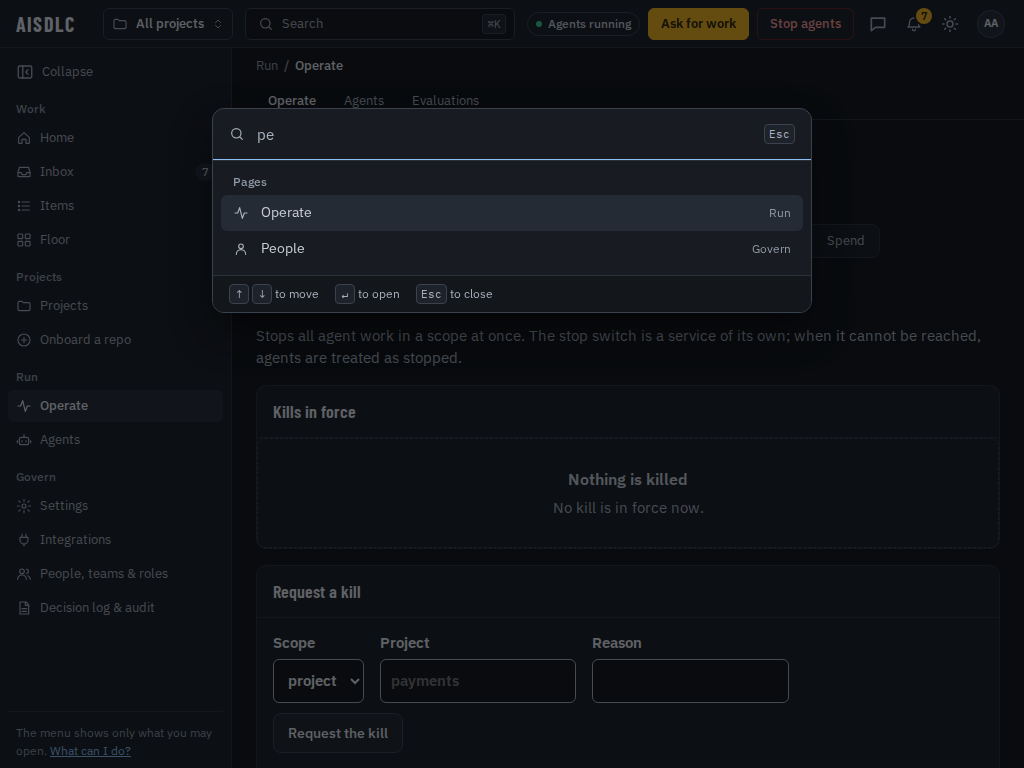
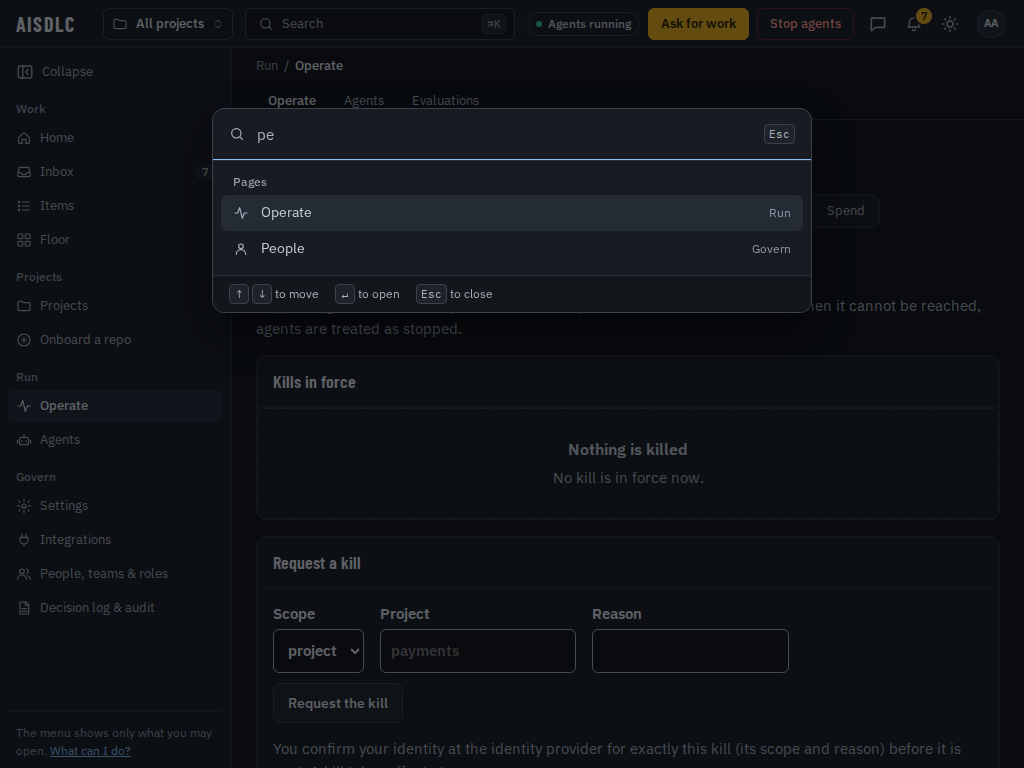
fix(web): one page header: the shell's trail replaces a page's repeated crumbs; h1 on the type scale

diff --git a/services/web/src/ui/AppShell.tsx b/services/web/src/ui/AppShell.tsx
@@ -8,7 +8,7 @@ import {
   type ReactNode,
 } from 'react';
 import { NavIcon } from './icons';
-import { Breadcrumb } from './page';
+import { Breadcrumb, TrailContext } from './page';
 
 // The portal's shell: a compact top bar (wordmark, project switcher, search, the person's controls), a slim rail of
 // group icons on the left (collapsed by default; expanded it is a two-level list), and in the page a header band
@@ -139,6 +139,15 @@ export function AppShell({
   const rail = collapsed && !phone;
   const navId = useId();
   const group = nav?.find((g) => g.entries.some(anyCurrent));
+  const trail = useMemo(() => {
+    const t = group ? tabsOf(group) : [];
+    const inside = group ? (t.find((x) => x.current) ?? group.entries.find(anyCurrent)) : undefined;
+    return [
+      ...(group?.label ? [group.label] : []),
+      ...(inside ? [inside.label] : []),
+      ...(here ? [here] : []),
+    ];
+  }, [group, here]);
   const mainRef = useRef<HTMLElement>(null);
   const first = useRef(true);
   useEffect(() => {
@@ -224,7 +233,9 @@ export function AppShell({
         <main id="main" tabIndex={-1} ref={mainRef} className="ui-main">
           {nav ? <PageBand group={group} here={here} renderLink={renderLink} /> : null}
           {banners ? <div className="ui-banners">{banners}</div> : null}
-          <div className="ui-content">{children}</div>
+          <TrailContext.Provider value={trail}>
+            <div className="ui-content">{children}</div>
+          </TrailContext.Provider>
         </main>
       </div>
     </div>

diff --git a/services/web/src/ui/page.tsx b/services/web/src/ui/page.tsx
@@ -1,8 +1,11 @@
-import type { ReactNode } from 'react';
+import { createContext, useContext, type ReactNode } from 'react';
 import type { Crumb } from './layout';
 
 // The top of a v2 page (skeleton screens 2 to 4): the breadcrumb, one `h1`, a line of facts, the status beside the
 // title and the page's actions. On a phone the actions wrap under the title.
+
+/** The shell's own trail (section, page): a page header leaves out crumbs that repeat it. */
+export const TrailContext = createContext<readonly string[]>([]);
 
 export function Breadcrumb({
   crumbs,
@@ -54,9 +57,13 @@ export function PageHeader({
   icon?: ReactNode;
   renderLink?: (to: string, label: string) => ReactNode;
 }) {
+  const trail = useContext(TrailContext);
+  const rest = crumbs.filter((c) => !trail.includes(c.label));
+  // what is left is worth a line only when it says more than the current page, which the shell's tabs name
+  const shown = rest.length >= 2 || rest.some((c) => c.to !== undefined) ? rest : [];
   return (
     <header className="ui-pageh">
-      <Breadcrumb crumbs={crumbs} {...(renderLink ? { renderLink } : {})} />
+      <Breadcrumb crumbs={shown} {...(renderLink ? { renderLink } : {})} />
       <div className="ui-pageh-row">
         {icon ? (
           <div className="ui-pageh-icon" aria-hidden="true">

diff --git a/services/web/src/ui/v2.css b/services/web/src/ui/v2.css
@@ -153,8 +153,8 @@ textarea.ui-input {
 .ui-pageh h1 {
   font-family: var(--display);
   font-weight: 600;
-  font-size: 32px;
-  line-height: 1.1;
+  font-size: var(--fs-h1);
+  line-height: 1.15;
   margin: 0;
   overflow-wrap: anywhere;
 }
@@ -760,7 +760,7 @@ button.ui-evidence-tile:hover {
 /* ---------- phone ---------- */
 @media (max-width: 860px) {
   .ui-pageh h1 {
-    font-size: 26px;
+    font-size: 24px;
   }
   .ui-decide,
   .ui-split {

diff --git a/services/web/src/ui/tokens.css b/services/web/src/ui/tokens.css
@@ -110,6 +110,7 @@
   --fs-xs: 12px;
   --fs-sm: 13px;
   --fs-md: 14px;
+  --fs-h1: 28px;
   --s-1: 4px;
   --s-2: 8px;
   --s-3: 12px;
